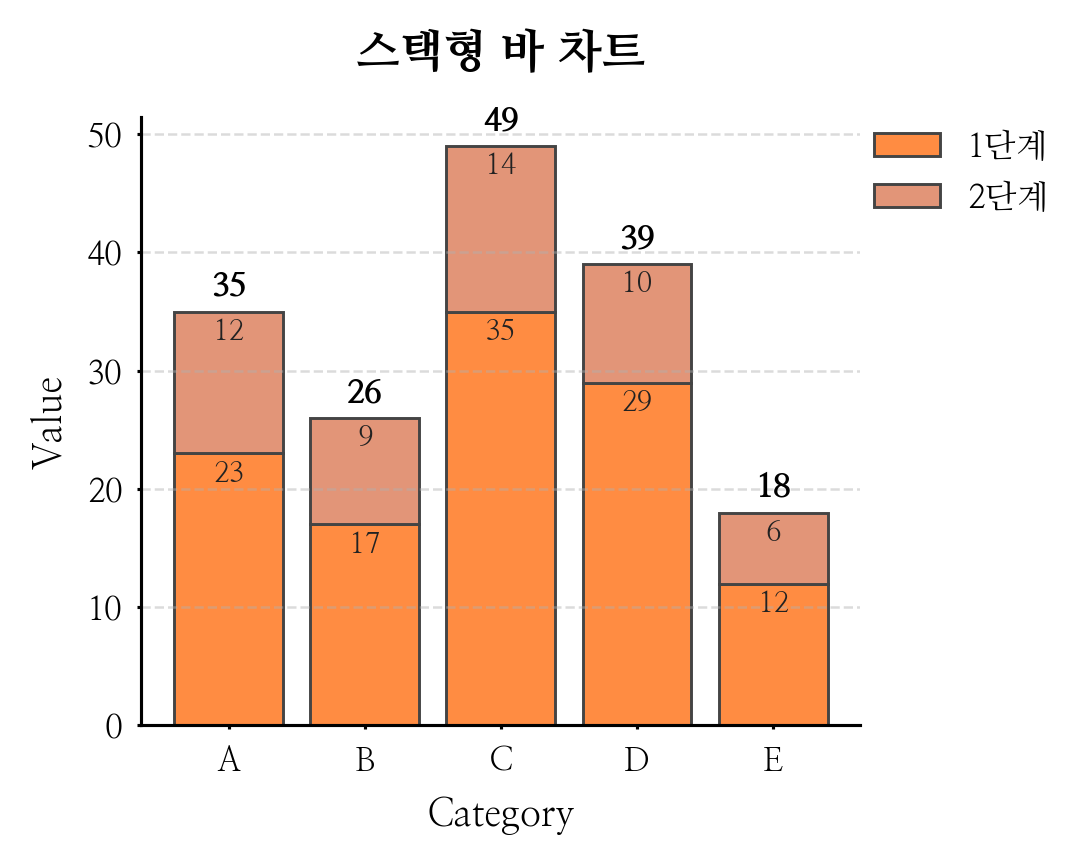
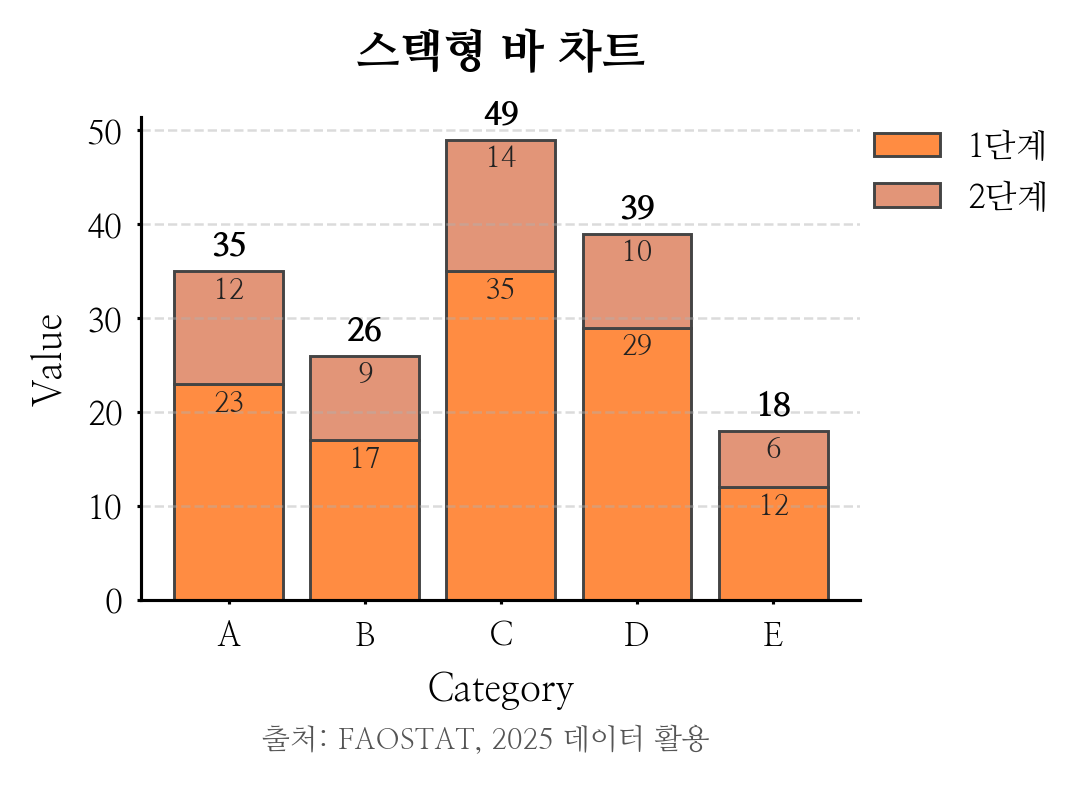
dd

diff --git a/src/chart_bar.py b/src/chart_bar.py
@@ -144,9 +144,16 @@ def draw_bar_stack():
             ha="center", va="top",
             fontsize=7, color="#222",
         )
+    fig.text(
+    0.4, 0.15,
+    "출처: FAOSTAT, 2025 데이터 활용",
+    ha="center", va="top",
+    fontsize=7, color="#555"
+    )
+
 
     # ---- 여백 확보 (legend 잘림 방지: PNG 기준) ----
-    fig.subplots_adjust(right=0.7, bottom=0.15)
+    fig.subplots_adjust(right=0.7, bottom=0.3)
     return fig
 
 
